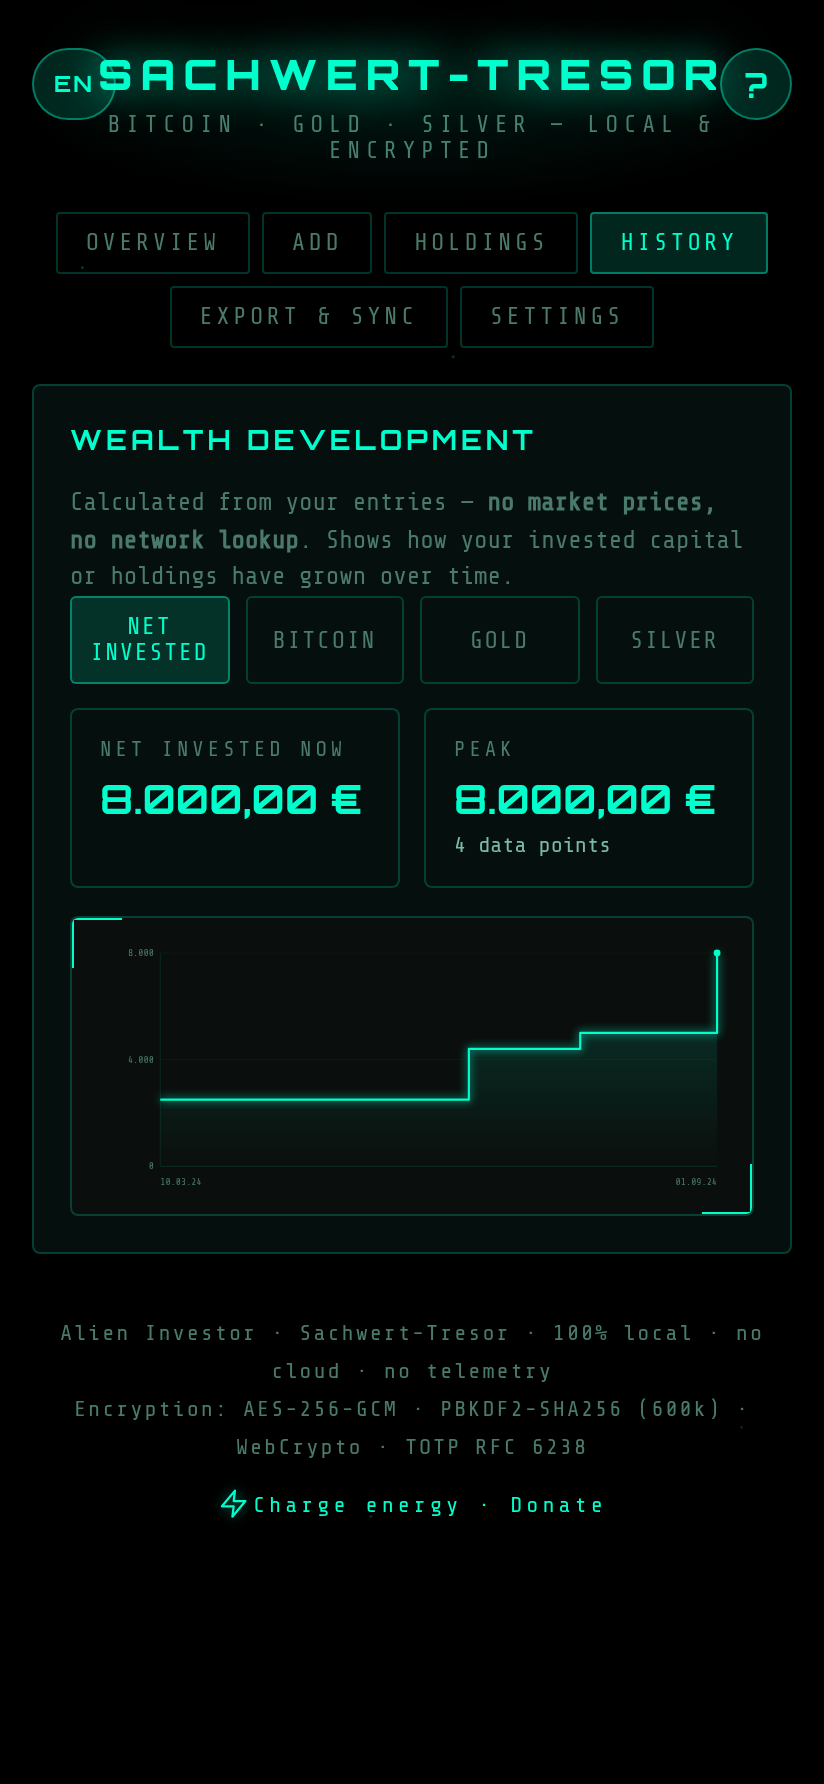
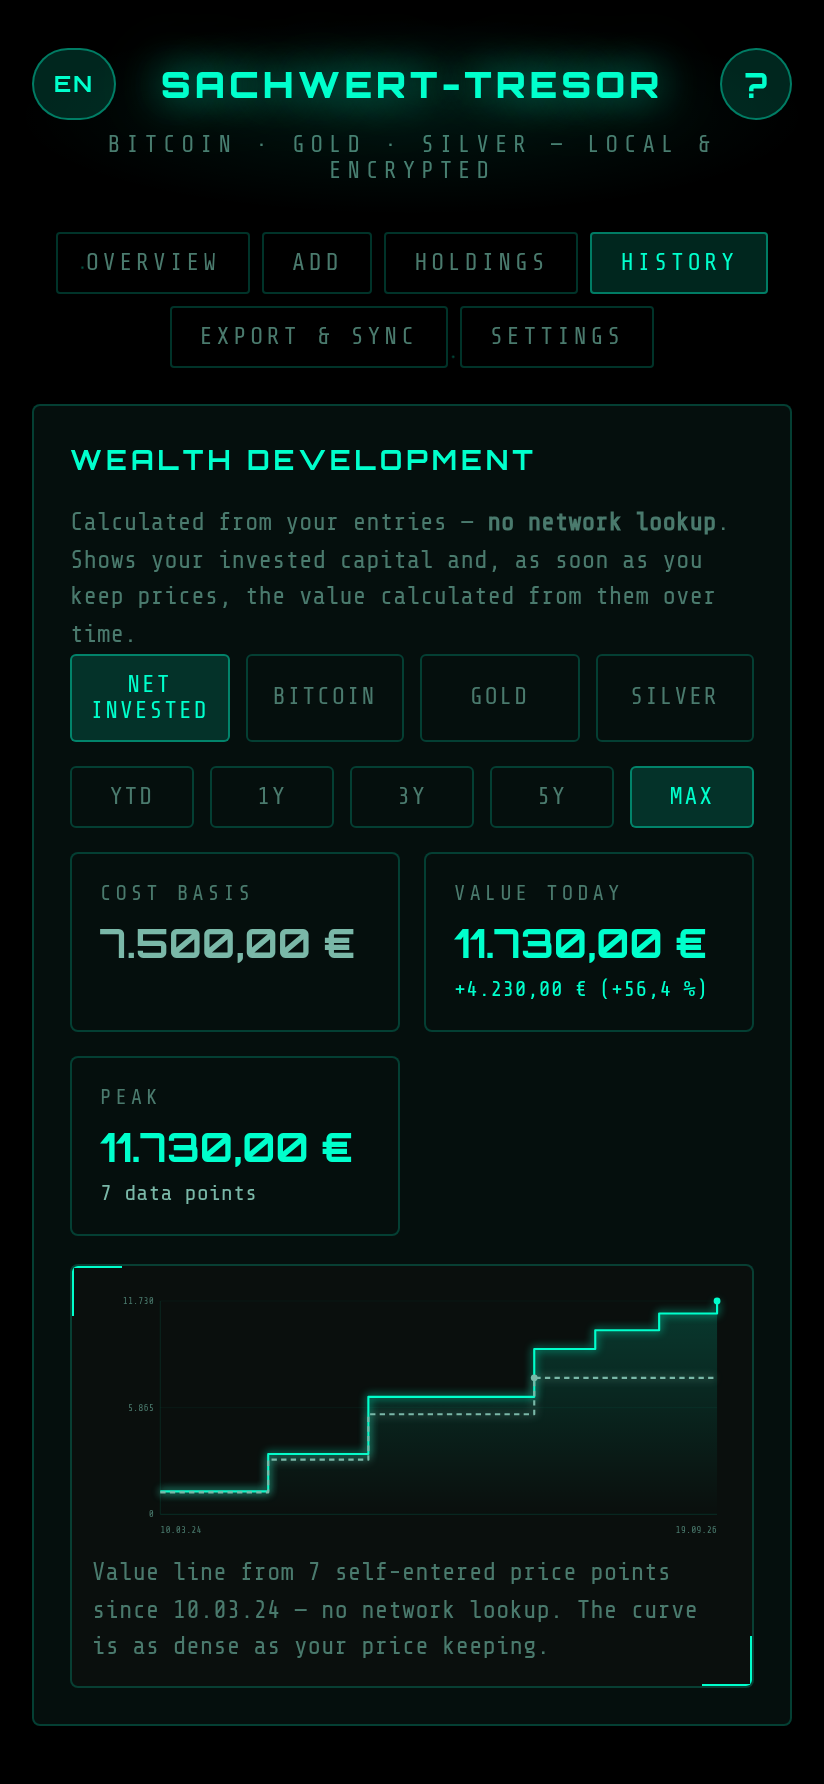
README, zapstore.yaml und Listing-Screenshot auf v2.12
Feature-Liste (DE im README, EN in der zapstore.yaml) um die Vermoegensentwicklung
ergaenzt: datierte Preisstaende, Wertlinie neben dem Einstand, Zeitraum-Umschalter,
Tooltip - und die Zusicherung, dass weiterhin nichts abgefragt wird und vor dem ersten
Stand bewusst keine Wertlinie erscheint.

screenshots/3-history.png neu geschossen (824x1784, EN, nur Demo-Daten): zeigt beide
Linien, die Zeitraum-Leiste und die Wert-Kachel. Das alte Bild war vom 14.06. und zeigte
das neue Hauptfeature nicht.

Berechtigungen unveraendert (keine), Fingerprint-Block unveraendert.

diff --git a/README.md b/README.md
@@ -60,6 +60,12 @@ Optional aktivierst du einen **2FA-Code** (Aegis/TOTP) als zweite Hürde.
 - **Übersicht**: **Netto-Bestand** je Anlageklasse (Käufe − Verkäufe − Entnahmen),
   investierter Einstand, realisierte Erlöse. Optional aktuelle Preise manuell eintragen
   (bewusst **keine Netz-Abfrage**, OpSec) → aktueller Wert & G/V ggü. netto investiert.
+- **Vermögensentwicklung** (seit v2.12): Jeder Preis, den du in der Übersicht einträgst, wird
+  mit Datum gemerkt (ein Stand je Tag). Daraus zeichnet der Verlauf den **Wert deiner Bestände**
+  neben dem gestrichelten **Einstand** — mit Zeitraum-Umschaltern (YTD/1J/3J/5J/MAX) und einem
+  Tooltip, der zu jedem Tag Wert, Einstand und Differenz nennt. Weiterhin **keine Netz-Abfrage**:
+  bewertet wird ausschließlich mit den selbst eingetragenen Ständen, und vor dem ersten Stand
+  gibt es bewusst keine Wertlinie statt erfundener Zahlen.
 - **Steuertool-Export**: `manual_buys.csv` (Käufe) und `manual_sales.csv` (Verkäufe) exakt
   im Format des BTC-Steuertools. Entnahmen sind keine Verkäufe und bleiben tresor-intern.
   Das Steuertool rechnet in EUR: USD/CHF-Buchungen sind nur mit erfasstem EUR-Gegenwert
